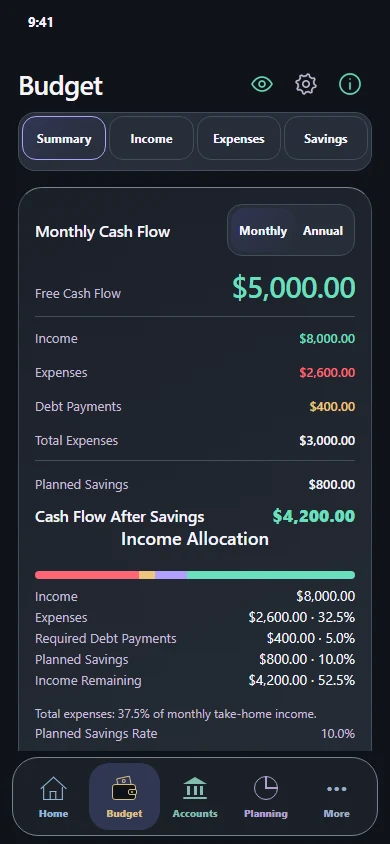
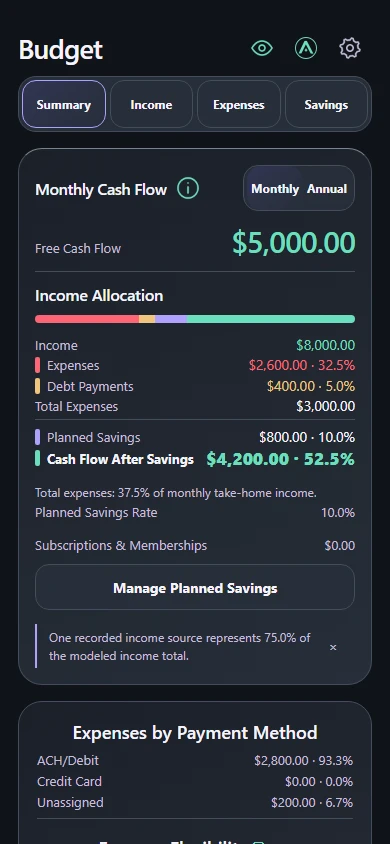
Refresh AIO Finance features and app previews

Changed region(s): [[0.0308, 0.0, 0.9538, 1.0], [0.0308, 0.8934, 0.0615, 0.9858], [0.0615, 0.9858, 0.0923, 1.0]]

diff --git a/src/features.html b/src/features.html
@@ -1,6 +1,8 @@
-<section class="feature-intro" id="hero"><div class="shell"><h1>What AIO Finance Does</h1><p class="lede">See what you can organize, what the planning tools calculate, and which reports you can create.</p><nav class="feature-nav" aria-label="Feature sections"><a href="#overview">Financial Overview</a><a href="#statement-analysis">Statement Analysis</a><a href="#aio-assistant">AIO Assistant</a><a href="#planning">Planning Tools</a><a href="#opportunity">Opportunity Comparison</a><a href="#reports">Reports</a><a href="#privacy">Data Control</a></nav></div></section><section id="overview" class="light"><div class="shell split"><div><p class="eyebrow">Financial Overview</p><h2>Net Worth and Cash Flow</h2><p class="lede">See net worth and cash flow alongside the records behind them. Review changes over time with Snapshot History.</p><ul class="feature-list"><li><strong>Budget &amp; Cash Flow</strong> Review income, expenses, savings allocations, and scheduled income.</li><li><strong>Assets &amp; Liabilities</strong> Organize what you own and owe. Recorded debt payments can feed cash flow and debt tools.</li><li><strong>Insurance &amp; Estate Organization</strong> Keep policy references, ownership, and beneficiary information alongside your financial records.</li></ul></div><div class="duo"><div class="phone"><img loading="lazy" src="assets/product/santorini-dark-budget.webp" width="390" height="844" alt="Budget summary showing cash flow"></div><div class="phone"><img loading="lazy" src="assets/product/santorini-dark-assets.webp" width="390" height="844" alt="Assets records in Accounts"></div></div></div></section>
-<section id="statement-analysis" class="light"><div class="shell split"><div><h2>Statement Analysis</h2><p class="lede">Import checking and credit card activity to see what you spent by month and category. In the app, open Budget &rarr; Expenses &rarr; Analyze Statements.</p><p>Choose CSV, XLSX, or a supported PDF with selectable text. AIO reads the files on your device.</p></div><ul class="feature-list"><li><strong>Review Spending</strong> Review transfers, card payments, and possible duplicates separately from spending. Monthly averages use months fully covered for every account in the review.</li><li><strong>Review Suggested Expenses</strong> Edit recurring expense suggestions and choose which ones to apply to your budget.</li><li><strong>Export Your Findings</strong> Create a Transaction Analysis PDF with an optional transaction appendix.</li></ul></div></section>
-<section id="aio-assistant"><div class="shell split"><div><h2>AIO Assistant</h2><p class="lede">On eligible Apple devices, ask a question about your finances, explore a temporary comparison, or prepare an entry for review.</p><p>Open AIO Assistant beside Settings. It uses the on-device Apple model when available and the app&rsquo;s existing tools for calculations.</p><ul class="feature-list"><li><strong>Review Before Confirming</strong> Check the request and assumptions before running a calculation or preparing an entry. Save any new entry yourself in its form.</li><li><strong>Find Help &amp; Tools</strong> Search the in-app guide and open calculators and features. Android offers Help &amp; Tools.</li></ul></div><figure class="assistant-example"><div class="phone"><img loading="lazy" src="assets/product/aio-assistant-example.png" width="390" height="844" alt="AIO Assistant answers a question about paying an extra $300 per month on an auto loan with estimated interest savings and payoff times."></div><figcaption>Example conversation with fictional loan data</figcaption></figure></div></section>
+<section class="feature-intro" id="hero"><div class="shell"><h1>What AIO Finance Does</h1><p class="lede">See what you can organize, what the planning tools calculate, and which reports you can create.</p><nav class="feature-nav" aria-label="Feature sections"><a href="#overview">Financial Overview</a><a href="#cash-flow">Calendar and Reminders</a><a href="#setup-and-history">Setup and History</a><a href="#statement-analysis">Transaction Analysis</a><a href="#aio-assistant">AIO Assistant</a><a href="#planning">Planning Tools</a><a href="#opportunity">Opportunity Comparison</a><a href="#reports">Reports</a><a href="#privacy">Data Control</a></nav></div></section><section id="overview" class="light"><div class="shell split"><div><p class="eyebrow">Financial Overview</p><h2>Net Worth and Cash Flow</h2><p class="lede">See net worth and cash flow alongside the records behind them. Review changes over time with Snapshot History.</p><ul class="feature-list"><li><strong>Budget &amp; Cash Flow</strong> Review income, expenses, savings allocations, and scheduled income.</li><li><strong>Assets &amp; Liabilities</strong> Organize what you own and owe. Recorded debt payments can feed cash flow and debt tools.</li><li><strong>Insurance &amp; Estate Organization</strong> Keep policy references, ownership, and beneficiary information alongside your financial records.</li></ul></div><div class="duo"><div class="phone"><img loading="lazy" src="assets/product/santorini-dark-budget.webp" width="390" height="844" alt="Budget summary showing cash flow"></div><div class="phone"><img loading="lazy" src="assets/product/santorini-dark-assets.webp" width="390" height="844" alt="Assets records in Accounts"></div></div></div></section>
+<section id="cash-flow" class="light"><div class="shell split"><div><h2>Cash Flow Calendar and Bill Reminders</h2><p class="lede">See dated income, expenses, debt payments, and savings transfers together on a monthly calendar.</p><ul class="feature-list"><li><strong>Browse Scheduled Cash Flow</strong> Open Cash Flow Calendar from Home or Trends. Select a day to see what is scheduled and open an item to review its saved record.</li><li><strong>Choose Which Bills to Be Reminded About</strong> Set an optional reminder for a dated expense or debt payment and choose when it alerts you. Dates can appear in the calendar without an alert.</li></ul></div><div class="duo"><div class="phone"><img loading="lazy" src="assets/product/cash-flow-calendar.webp" width="390" height="844" alt="Cash Flow Calendar showing the month and scheduled cash flow summaries"></div><div class="phone"><img loading="lazy" src="assets/product/bill-reminders.webp" width="390" height="844" alt="Bill Reminders screen for choosing an expense or liability"></div></div></div></section>
+<section id="setup-and-history"><div class="shell split"><div><h2>Guided Setup and Balance History</h2><ul class="feature-list"><li><strong>Guided Setup</strong> Follow a checklist for adding financial records and choosing settings. Pause and return whenever you are ready.</li><li><strong>Historical Balance Entries</strong> Add older balances for individual saved records and compare them with current balances. Partial entries stay separate from net worth charts and quarterly snapshots.</li></ul></div><div class="duo"><div class="phone"><img loading="lazy" src="assets/product/guided-setup.webp" width="390" height="844" alt="Getting Started checklist in AIO Finance"></div><div class="phone"><img loading="lazy" src="assets/product/historical-balances.webp" width="390" height="844" alt="Snapshot History with the option to enter historical balances"></div></div></div></section>
+<section id="statement-analysis" class="light"><div class="shell split"><div><h2>Transaction Analysis</h2><p class="lede">Import checking and credit card statements to see what you spent by month, category, or merchant.</p><p>Open Budget &rarr; Expenses &rarr; Analyze Statements. AIO reads supported CSV, XLSX, and PDF files on your device. Review extracted rows, statement coverage, and any unresolved amounts before relying on the results.</p><ul class="feature-list"><li><strong>Review Spending</strong> See transfers, card payments, and possible duplicates separately. Monthly averages use complete months shared by all included accounts.</li><li><strong>Ask About These Results</strong> Ask about your current review, such as how much you spent at a merchant or how two complete months compare.</li><li><strong>Update Your Budget or Export</strong> Review and choose which expense suggestions to apply, or export a PDF with an optional transaction appendix.</li></ul></div><div class="phone"><img loading="lazy" src="assets/product/transaction-analysis.webp" width="390" height="844" alt="Analyze Statements screen with import options for checking and credit card statements"></div></div></section>
+<section id="aio-assistant"><div class="shell split"><div><h2>AIO Assistant</h2><p class="lede">Ask about saved finances, run a calculation, or prepare an entry to review.</p><ul class="feature-list"><li><strong>Start From a Main Screen</strong> Open AIO Assistant from the header to ask about recorded balances, debt, or planned spending and savings.</li><li><strong>Work Offline</strong> The assistant uses the app&rsquo;s financial tools for calculations. Compatible Apple devices can use an on-device model to understand more ways of asking.</li><li><strong>Review Before Saving</strong> Check any suggested inputs or prepared entries in the relevant app tool before you save.</li></ul></div><figure class="assistant-example"><div class="phone"><img loading="lazy" src="assets/product/assistant-current.webp" width="390" height="844" alt="AIO Assistant answering a percentage calculation"></div><figcaption>Example conversation</figcaption></figure></div></section>
 <section id="planning" class="light planning"><div class="shell"><div class="section-heading"><h2>Financial Planning Tools</h2><p class="lede">Enter your own assumptions, examine the results, and save supported scenarios to revisit.</p></div><div class="showcase plan-layout"><div class="choices" id="tools" role="group" aria-label="Select a planning tool"></div><div class="plan-copy" id="tool-copy" aria-live="polite"></div><div class="phone"><img id="tool-img" loading="lazy" src="assets/product/santorini-dark-opportunity.webp" width="390" height="844" alt="Opportunity Comparison"></div></div></div></section>
 <section id="opportunity"><div class="shell split"><div><p class="eyebrow">Opportunity Comparison</p><h2>Compare Rental and Business Scenarios</h2><p class="lede">Compare two to four saved Rental Analysis or Business Analysis scenarios. Review what each assumes about financing and operating costs, then compare modeled cash flow and each scenario’s own return measures.</p><p>Open either worksheet to revise its assumptions. AIO displays the results for you to interpret.</p><a class="button" href="#planning" data-opportunity>Explore Opportunity Comparison</a></div><div class="phone"><img loading="lazy" src="assets/product/santorini-dark-opportunity.webp" width="390" height="844" alt="Selected fictional rental and business scenarios in Opportunity Comparison"></div></div></section>
 <section id="reports" class="light"><div class="shell split"><div><h2>Financial Reports and Statements</h2><p class="lede">Create PDFs for your own review or share the reports you choose.</p><ul class="feature-list"><li><strong>Financial Statements</strong> Review your position with a Net Worth Statement, Asset Schedule, or Custom Statement.</li><li><strong>Planning Reports</strong> Export supported analyses such as Investment Projection, debt, rental, and business reports.</li></ul><details><summary>Browse Report Types</summary><p id="report-types"></p></details></div><div id="report-previews" class="papers" aria-label="Fictional report previews"></div></div></section>

diff --git a/src/home.html b/src/home.html
@@ -1,11 +1,12 @@
 
 <section class="hero" id="hero"><div class="shell hero-layout"><div class="hero-copy"><h1>Your Entire Financial Picture. One Place.</h1><p class="lede">Organize what you own, owe, earn, and spend. Plan for retirement, explore debt strategies, compare rental and business scenarios, and create reports you can review or share.</p><a class="button primary" href="features/">See What the App Does</a></div><figure class="hero-art"><div class="hero-phones"><div class="phone hero-phone-back"><img src="assets/product/santorini-light-budget.webp" width="390" height="844" alt="Budget summary in Santorini Light"></div><div class="phone hero-phone-front"><img src="assets/product/santorini-dark-home.webp" width="390" height="844" fetchpriority="high" alt="Home dashboard showing net worth and cash flow in Santorini Dark"></div></div><figcaption>App preview with fictional data</figcaption></figure></div></section>
 <section class="light" id="at-a-glance"><div class="shell"><h2>AIO Finance at a Glance</h2><p class="lede"><strong>Knowing where your money goes is only part of understanding your finances.</strong> AIO Finance turns the numbers you enter into charts, calculations, and side-by-side comparisons so you can see how your finances fit together and explore what could change with a different decision.</p><div class="summary-grid">
-<article><h3>Organize Your Finances</h3><p>Track assets, liabilities, income, and expenses. Review net worth and cash flow.</p><a href="features/#overview">Financial Overview</a></article>
+<article><h3>Organize Your Finances</h3><p>Track assets, liabilities, income, and expenses. Review net worth, add historical balances, and see what is scheduled in Cash Flow Calendar.</p><a href="features/#overview">Financial Overview</a></article>
 <article><h3>Explore a Decision</h3><p>Estimate investment growth, compare debt strategies, and model rental or business scenarios.</p><a href="features/#planning">Planning Tools</a></article>
 <article><h3>Review and Share Reports</h3><p>Create statements and export available planning results to PDF.</p><a href="features/#reports">Reports and Statements</a></article>
 </div></div></section>
-<section id="statement-and-assistant"><div class="shell split"><div><h2>Statement Analysis</h2><p>Import checking and credit card activity, review where your money went, and choose which expense suggestions to apply to your budget.</p><a class="button" href="features/#statement-analysis">Explore Statement Analysis</a></div><div><h2>AIO Assistant</h2><p>On eligible Apple devices, ask a question about your finances or prepare a temporary comparison. Use Help &amp; Tools to find guides and calculators.</p><a class="button" href="features/#aio-assistant">Explore AIO Assistant</a></div></div></section>
+<section id="statement-and-assistant"><div class="shell split"><div><h2>Transaction Analysis</h2><p>Import checking and credit card activity, review where your money went, and choose which expense suggestions to apply to your budget.</p><a class="button" href="features/#statement-analysis">Explore Transaction Analysis</a></div><div><h2>AIO Assistant</h2><p>Ask about saved finances, check a calculation, or prepare an entry to review. Compatible Apple devices offer additional ways to ask using an on-device model.</p><a class="button" href="features/#aio-assistant">Explore AIO Assistant</a></div></div></section>
+<section id="calendar-preview" class="light"><div class="shell split"><div><h2>See What&rsquo;s Coming Up</h2><p>Use Cash Flow Calendar to see scheduled income, expenses, debt payments, and savings. Set optional reminders for the bills you choose.</p><a class="button" href="features/#cash-flow">Explore Calendar and Reminders</a></div><div class="phone"><img loading="lazy" src="assets/product/cash-flow-calendar.webp" width="390" height="844" alt="Monthly Cash Flow Calendar with scheduled income and payments"></div></div></section>
 <section class="light" id="planning-preview"><div class="shell split"><div><h2>Compare Planning Scenarios</h2><p class="lede">Estimate investment growth, explore debt payoff, or model costs and cash flow for a rental or small business.</p><h3>Opportunity Comparison</h3><p>Select two to four saved rental or business scenarios and compare operating profit, financing payments, and cash flow side by side.</p><a class="button" href="features/#opportunity">See Opportunity Comparison</a></div><div class="phone"><img loading="lazy" src="assets/product/santorini-dark-opportunity.webp" width="390" height="844" alt="Opportunity Comparison with fictional rental and business scenarios"></div></div></section><section id="themes" class="theme-section"><div class="shell split"><div><p class="eyebrow">Appearance</p><h2>App Appearance</h2><p class="lede">Choose a theme and a screen to preview the app.</p><div class="theme-groups">
 <div role="group" aria-labelledby="dark-themes-label"><h3 id="dark-themes-label">Dark Themes</h3><div id="dark-themes" class="choices swatches"></div></div>
 <div role="group" aria-labelledby="light-themes-label"><h3 id="light-themes-label">Light Themes</h3><div id="light-themes" class="choices swatches"></div></div>

diff --git a/src/index.html b/src/index.html
@@ -1,3 +1,3 @@
 <!doctype html>
 <html lang="en"><head><meta charset="utf-8"><meta name="viewport" content="width=device-width,initial-scale=1"><meta name="description" content="AIO Finance brings financial organization, visualization, and life planning into one perspective. Financial organization, planning, privacy and support."><meta name="referrer" content="strict-origin-when-cross-origin"><meta http-equiv="Content-Security-Policy" content="default-src 'self'; script-src 'self'; style-src 'self'; img-src 'self' data:; font-src 'self'; connect-src 'none'; object-src 'none'; base-uri 'self'; form-action 'none'"><title><!-- PAGE_TITLE --></title><!-- PAGE_BASE --><link rel="icon" href="assets/icon-64.png"><link rel="stylesheet" href="styles.css"><script src="app.js" defer></script><!-- PRODUCT_ASSETS --><link rel="canonical" href="<!-- CANONICAL -->"></head>
-<body class="<!-- BODY_CLASS -->" data-entry="<!-- PAGE_ENTRY -->"><a class="skip" href="#main">Skip to content</a><header class="site-header"><a class="brand" href="./" aria-label="AIO Finance home"><img src="assets/icon-64.png" width="40" height="40" alt=""><span>AIO <strong>Finance</strong></span></a><nav aria-label="Main"><a href="./">Home</a><a href="features/">Features</a><a href="privacy/">Privacy</a><a href="support/">Support</a></nav></header><main id="main" tabindex="-1"><!-- PAGE_CONTENT --></main><footer class="shell footer-layout"><a class="brand" href="./"><img src="assets/icon-64.png" width="36" height="36" alt=""><span>AIO <strong>Finance</strong></span></a><div><a href="privacy/">Privacy Policy</a><a href="support/">Support</a><a href="https://www.linkedin.com/company/aio-finance-app/">LinkedIn</a></div><small>© 2026 AIO Finance. All rights reserved.</small></footer></body></html>
+<body class="<!-- BODY_CLASS -->" data-entry="<!-- PAGE_ENTRY -->"><a class="skip" href="#main">Skip to content</a><header class="site-header"><a class="brand" href="./" aria-label="AIO Finance home"><img src="assets/icon-64.png" width="40" height="40" alt=""><span>AIO <strong>Finance</strong></span></a><nav aria-label="Main"><a href="./">Home</a><a href="features/">Features</a><a href="privacy/">Privacy</a><a href="support/">Support</a></nav></header><main id="main" tabindex="-1"><!-- PAGE_CONTENT --></main><footer class="shell footer-layout"><a class="brand" href="./"><img src="assets/icon-64.png" width="36" height="36" alt=""><span>AIO <strong>Finance</strong></span></a><div><a href="privacy/">Privacy Policy</a><a href="support/">Support</a><a class="linkedin-link" href="https://www.linkedin.com/company/aio-finance-app/"><svg aria-hidden="true" focusable="false" width="16" height="16" viewBox="0 0 24 24" fill="currentColor"><path d="M2 0h20a2 2 0 0 1 2 2v20a2 2 0 0 1-2 2H2a2 2 0 0 1-2-2V2a2 2 0 0 1 2-2Zm3.5 9v10h3V9h-3ZM7 4.5a1.75 1.75 0 1 0 0 3.5 1.75 1.75 0 0 0 0-3.5ZM11 9v10h3v-5.5a2 2 0 0 1 4 0V19h3v-6.5c0-2.4-1.5-3.8-3.6-3.8-1.4 0-2.5.6-3.4 1.5V9h-3Z" fill-rule="evenodd"/></svg> LinkedIn</a></div><small>© 2026 AIO Finance. All rights reserved.</small></footer></body></html>

diff --git a/src/styles.css b/src/styles.css
@@ -17,3 +17,6 @@ footer{grid-template-columns:1fr 1fr}footer>div{font-size:12px}footer>div a{padd
 @media(max-width:700px){.site-header{flex-wrap:nowrap;padding:17px 6%;gap:12px}.site-header .brand{font-size:18px;gap:8px}.site-header .brand img{width:34px;height:34px}.site-header nav{order:initial;width:auto;gap:16px;font-size:12px}.site-header nav a{display:flex;align-items:center;padding:8px 0;min-height:44px}.hero{padding-top:40px;padding-bottom:45px;min-height:auto}.hero-copy .beta-note{font-size:11px;margin-top:22px}.hero-art{padding-top:48px}.feature-editorial{grid-template-columns:1fr;gap:15px}.feature-editorial article{padding:30px 24px}.feature-editorial h3{font-size:2.2rem}.feature-editorial p:not(.eyebrow){font-size:14px}.ownership{grid-template-columns:1fr;gap:24px}.ownership-mark img{width:68px;height:68px}.ownership p:not(.eyebrow){font-size:14px}.policy-body p{font-size:14px}.policy-index{gap:6px 17px}.policy-body h2{font-size:18px}.privacy h1{font-size:2.8rem}.policy-body h3{font-size:14px}.support-guide p{font-size:14px}.support-guide h3{font-size:16px}.support-address{font-size:14px}footer{grid-template-columns:1fr;gap:16px}footer>div{gap:24px}body[data-entry="privacy"] .privacy{padding-top:40px}}
 @media(max-width:360px){.site-header .brand{font-size:16px}.site-header nav{gap:12px;font-size:11px}.site-header .brand img{width:30px;height:30px}.feature-editorial h3{font-size:2rem}}
 @media print{body[data-entry="privacy"] .privacy{display:block}body[data-entry="privacy"] .policy-body h2{break-after:avoid}}
+
+.linkedin-link { display: inline-flex; align-items: center; gap: .4em; }
+.linkedin-link svg { flex: none; }

diff --git a/src/themes.js b/src/themes.js
@@ -11,8 +11,13 @@ window.AIO_THEMES = {
       "#091524"
     ],
     [
+      "black-copper",
+      "Black Copper",
+      "#100C09"
+    ],
+    [
       "graphite-titanium",
-      "Graphite Titanium",
+      "Graphite",
       "#1B2028"
     ]
   ],
@@ -29,8 +34,13 @@ window.AIO_THEMES = {
     ],
     [
       "ivory-champagne",
-      "Ivory Champagne",
+      "Champagne",
       "#F8F3EA"
+    ],
+    [
+      "lavender-slate",
+      "Lilac Dream",
+      "#F5F2FA"
     ]
   ]
 };

diff --git a/src/product.css b/src/product.css
@@ -89,3 +89,6 @@ html{-webkit-text-size-adjust:100%;text-size-adjust:100%}
 }
 
 .assistant-example{display:grid;justify-items:center;gap:12px;margin:0}.assistant-example figcaption{color:var(--muted);text-align:center;font-size:.875rem}
+
+.linkedin-link { display: inline-flex; align-items: center; gap: .4em; }
+.linkedin-link svg { flex: none; }
